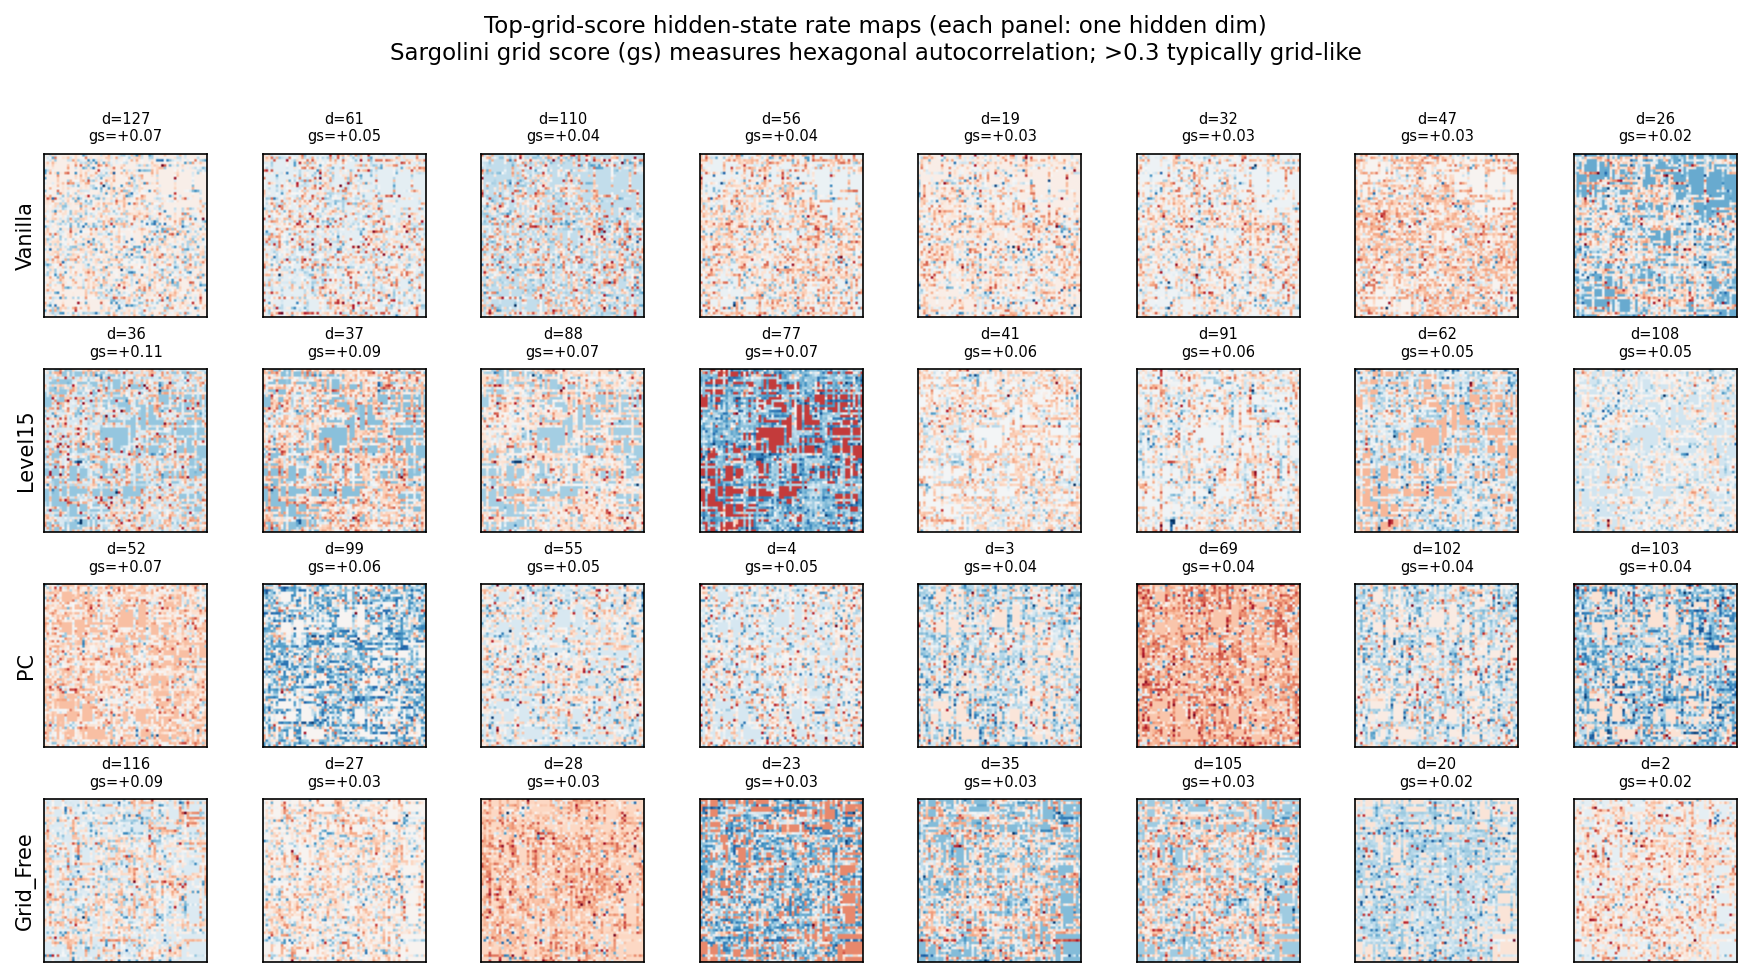
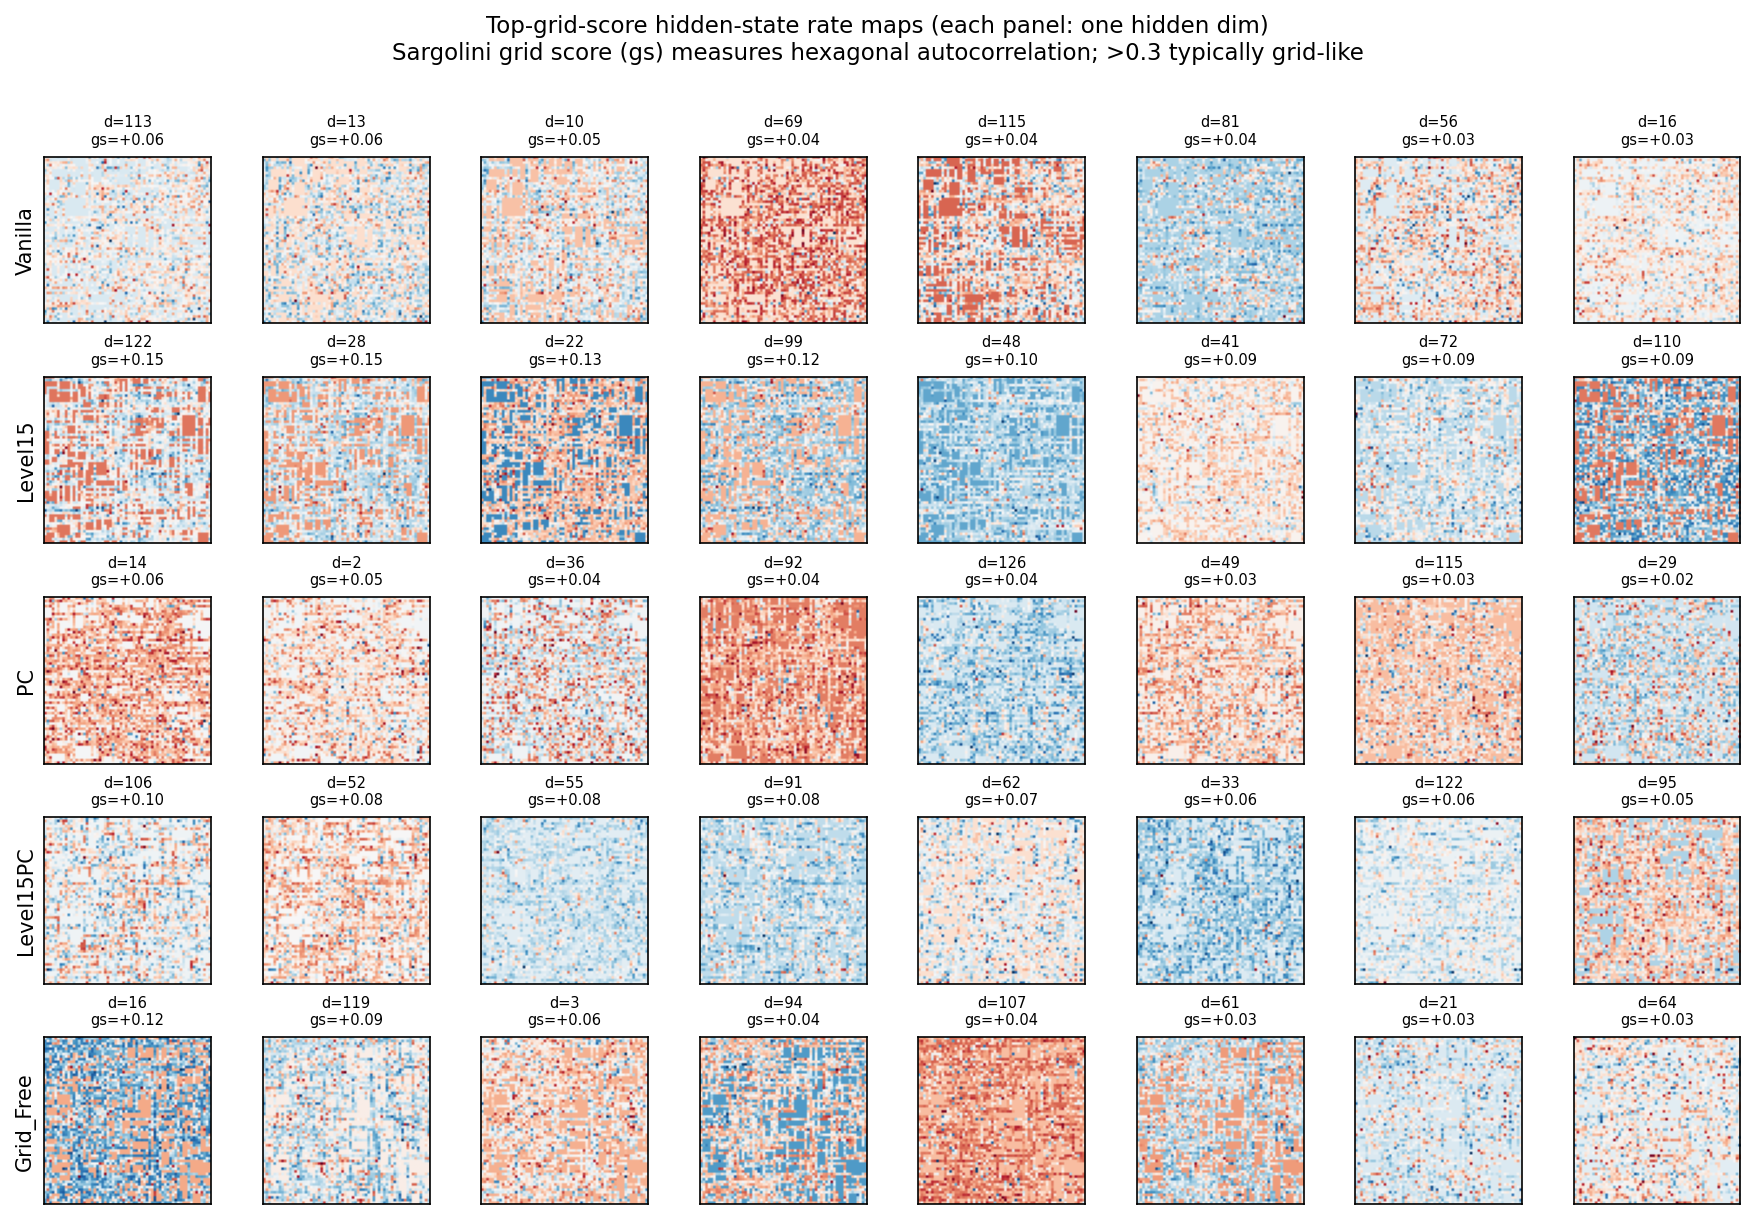
Re-add Level15PC to hippocampal_hidden_eval VARIANT_CLS + re-run
The user-edited version of hippocampal_hidden_eval.py overwrote the
earlier Level15PC registration; the master pipeline ran with the
KeyError-skipping behaviour and Level15PC was missing from
HIPPOCAMPAL_LEVEL15PC.md.

Re-added the import + VARIANT_CLS entry; re-ran the eval. New result:

| Variant | Max grid score |
|---|---|
| Level15  | 0.155 |
| Grid_Free | 0.124 |
| Level15PC | 0.102 |
| Vanilla  | 0.062 |
| PC       | 0.055 |

Level 1.5 remains the strongest hex-suggestive variant (despite no
architectural design for hex). Level15PC sits between Level15 and PC
— inherits some of Level15's structure but loses ~1/3 to the PC aux
loss. All variants still 0/N above 0.3 threshold; section 6.5
falsification stands.

diff --git a/hippocampal_hidden_eval.py b/hippocampal_hidden_eval.py
@@ -44,6 +44,7 @@ from mapformer.model_predictive_coding import MapFormerWM_PredictiveCoding
 from mapformer.model_baseline_rope import MapFormerWM_RoPE
 from mapformer.model_baselines_extra import EXTRA_BASELINES
 from mapformer.model_grid import MapFormerWM_Grid, MapFormerWM_Grid_Free
+from mapformer.model_level15_pc import MapFormerWM_Level15PC
 from mapformer.model_grid_l15_pc import (
     MapFormerWM_GridL15PC, MapFormerWM_GridL15PC_Free,
 )
@@ -54,6 +55,7 @@ VARIANT_CLS = {
     "Level1":          MapFormerWM_ParallelInEKF,
     "Level15":         MapFormerWM_Level15InEKF,
     "Level15EM":       MapFormerEM_Level15InEKF,
+    "Level15PC":       MapFormerWM_Level15PC,
     "PC":              MapFormerWM_PredictiveCoding,
     "RoPE":            MapFormerWM_RoPE,
     "Grid":            MapFormerWM_Grid,

diff --git a/HIPPOCAMPAL_LEVEL15PC.md b/HIPPOCAMPAL_LEVEL15PC.md
@@ -12,9 +12,10 @@ Hexagonality, if present, must emerge at the **hidden-state level**, where atten
 
 | Variant | max grid score | # dims with score > 0.3 | # dims with score > 0 |
 |---|---|---|---|
-| Vanilla | +0.072 | 0 | 26 |
-| Level15 | +0.108 | 0 | 49 |
-| PC | +0.065 | 0 | 31 |
-| Grid_Free | +0.091 | 0 | 20 |
+| Vanilla | +0.062 | 0 | 21 |
+| Level15 | +0.155 | 0 | 61 |
+| PC | +0.055 | 0 | 18 |
+| Level15PC | +0.102 | 0 | 26 |
+| Grid_Free | +0.124 | 0 | 18 |
 
 *Auto-generated by `hippocampal_hidden_eval.py`.*
